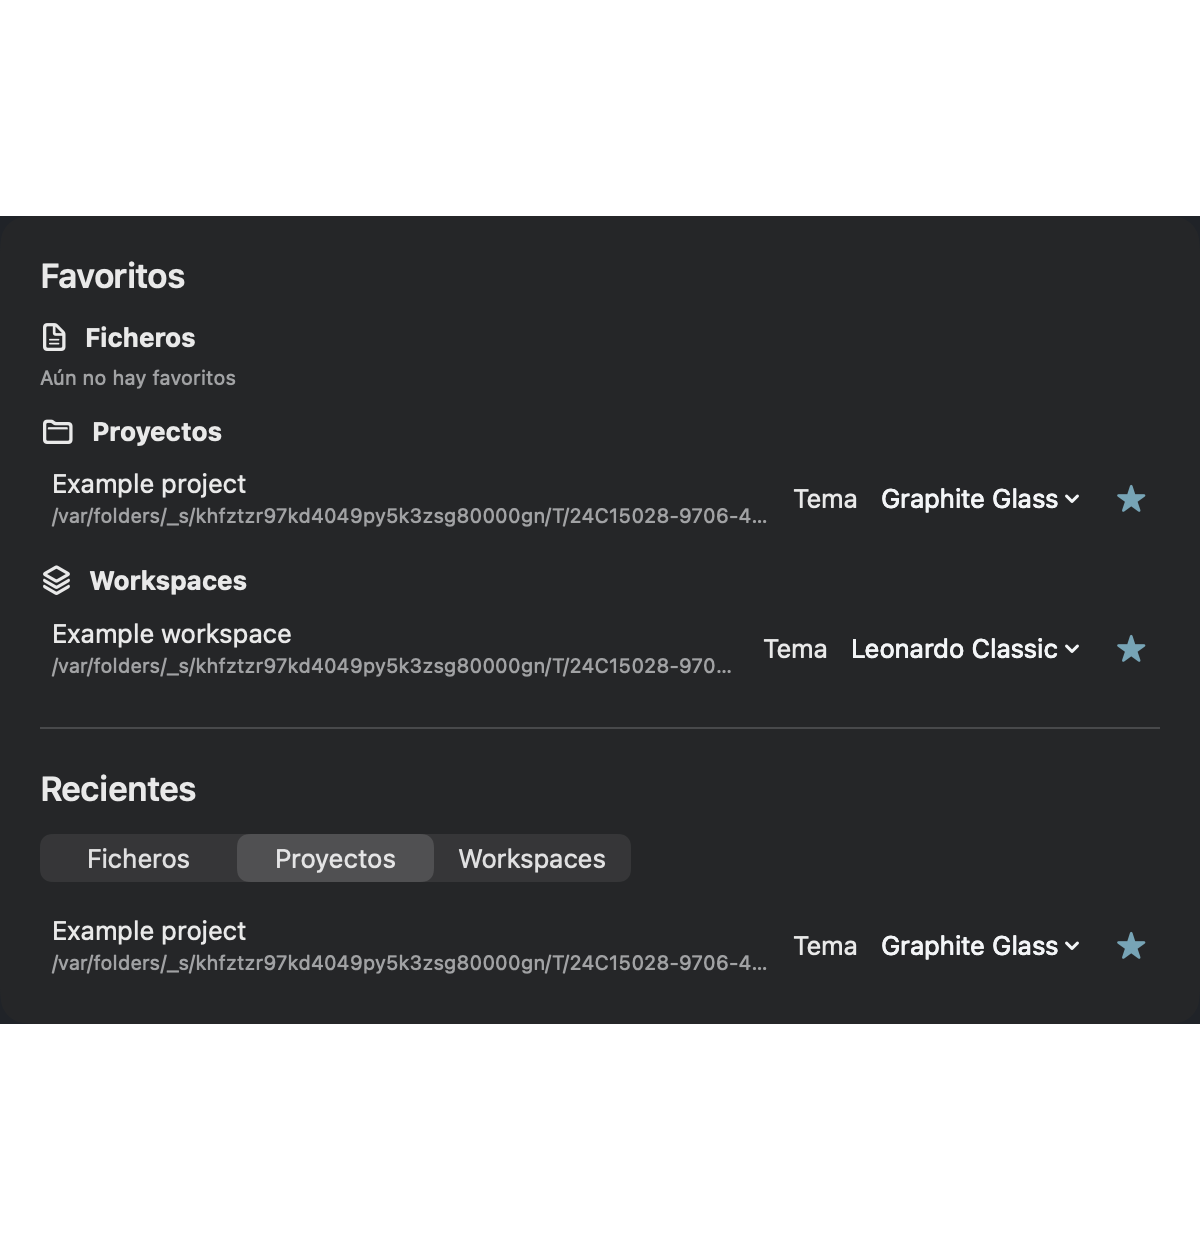
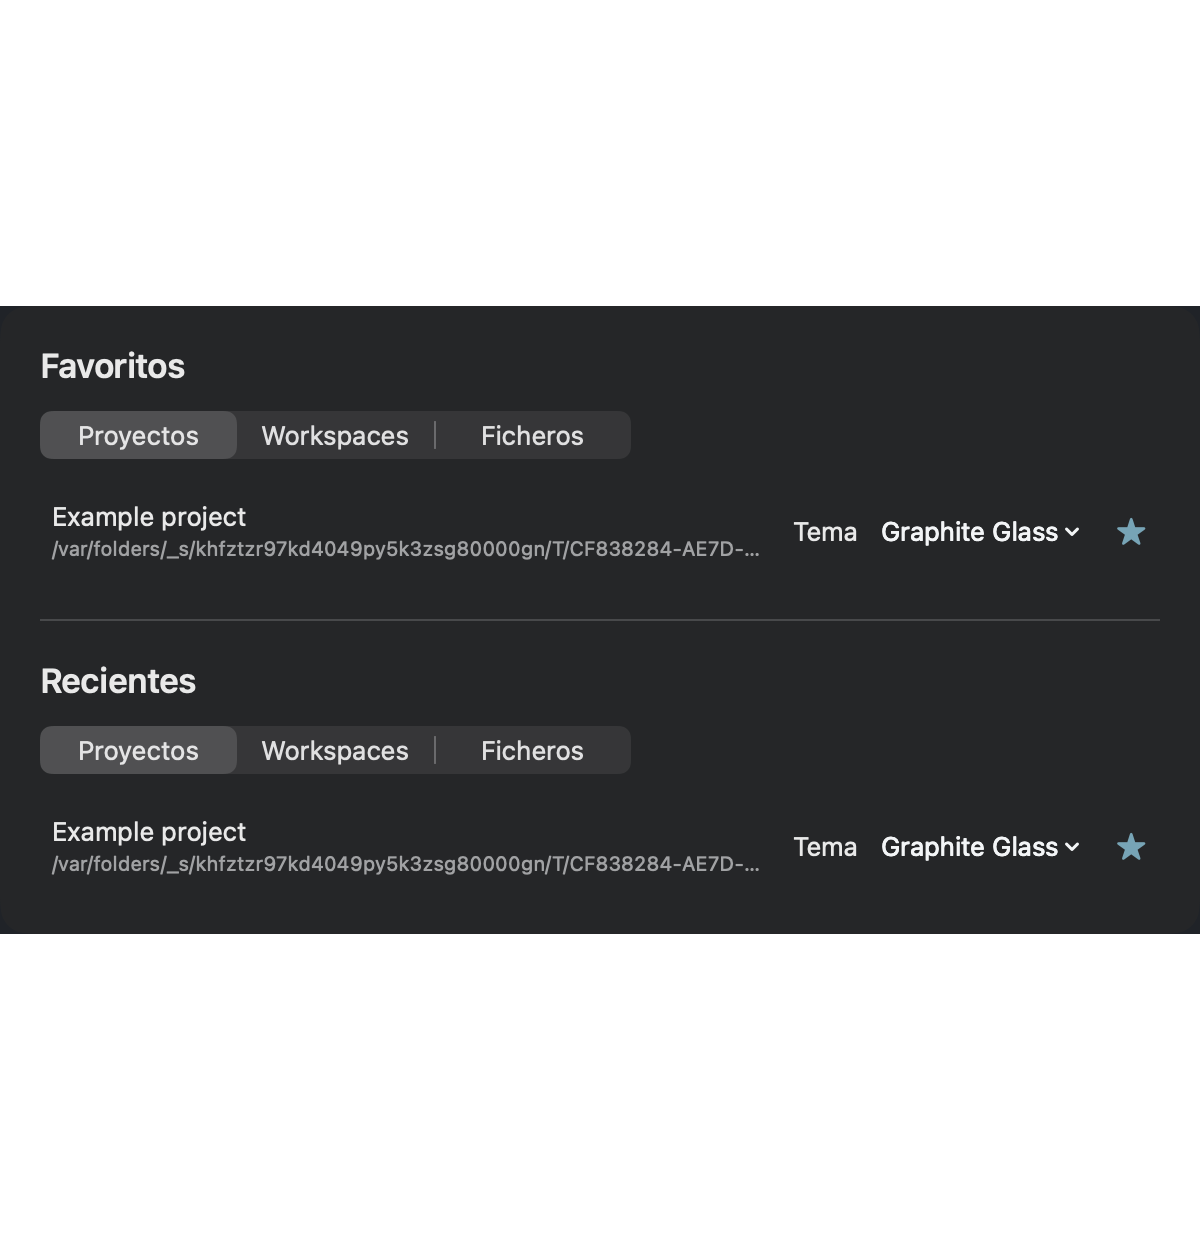
#300 Updated: validate theme menus with current Home tabs (#304)

diff --git a/Tests/LeonardoAppTests/FavoriteThemeTests.swift b/Tests/LeonardoAppTests/FavoriteThemeTests.swift
@@ -239,21 +239,26 @@ final class FavoriteThemeTests: XCTestCase {
         session.setFavoritePalette(.graphiteGlass, for: project, kind: .project)
         session.setFavoritePalette(.leonardoClassic, for: workspace, kind: .workspace)
         session.globalPreferences.recentProjectPaths = [project]
+        session.globalPreferences.recentWorkspacePaths = [workspace]
         session.persistSettings()
         await session.settingsTask?.value
         let language = LanguageSettings.shared.language
         defer { LanguageSettings.shared.language = language }
         let directory = URL(fileURLWithPath: destination, isDirectory: true)
         try FileManager.default.createDirectory(at: directory, withIntermediateDirectories: true)
-        for (locale, width, palette) in [(AppLanguage.english, 900, PaletteID.paperWhite),
-                                         (.spanish, 900, .paperWhite), (.spanish, 600, .graphiteGlass)] {
+        for (locale, width, palette, kind) in [
+            (AppLanguage.english, 900, PaletteID.paperWhite, FavoriteItem.Kind.project),
+            (.spanish, 900, .paperWhite, .project), (.spanish, 600, .graphiteGlass, .project),
+            (.english, 900, .paperWhite, .workspace), (.spanish, 600, .graphiteGlass, .workspace)
+        ] {
             LanguageSettings.shared.language = locale
             session.globalPreferences.palette = palette
             session.persistSettings()
             await session.settingsTask?.value
-            let view = NSHostingView(rootView: SavedItemsView(session: session, recentKind: .project)
+            let view = NSHostingView(rootView: SavedItemsView(session: session, favoriteKind: kind, recentKind: kind)
                 .background(session.surfaceColor).modifier(SessionAppearance(session: session)))
-            let name = "favorite-themes-\(locale.rawValue)-\(width)"
+            let suffix = kind == .project ? "" : "-workspace"
+            let name = "favorite-themes-\(locale.rawValue)-\(width)" + suffix
             try await NativeViewCaptureSupport.capture(view, size: NSSize(width: width, height: 620),
                 to: directory.appendingPathComponent(name + ".png"), title: "Favorite themes QA") { view in
                     // Keep native host appearance light while the session can be dark.
@@ -265,7 +270,8 @@ final class FavoriteThemeTests: XCTestCase {
             let metadata: [String: Any] = [
                 "head": environment["EVIDENCE_SHA"] ?? "unavailable; local source manifest required",
                 "captured_at": ISO8601DateFormatter().string(from: Date()),
-                "surface": "Native NSHostingView SavedItemsView; synthetic project/workspace favorites and starred recent project",
+                "surface": "Native NSHostingView SavedItemsView; synthetic \(kind.rawValue) favorites and starred recent items",
+                "favorite_category": kind.rawValue,
                 "viewport_points": [width, 620], "pixel_dimensions": try NSBitmapImageRep(data: Data(contentsOf: directory.appendingPathComponent(name + ".png"))).map { [$0.pixelsWide, $0.pixelsHigh] } ?? [],
                 "language": locale.rawValue, "palette": palette.rawValue,
                 "native_host_appearance": "Aqua (including the dark session fixture)",

diff --git a/doc/validation/favorite-themes/README.md b/doc/validation/favorite-themes/README.md
@@ -11,8 +11,8 @@ was packaged or launched as a standalone GUI app.
 - `favorite-themes-es-900.png`: Spanish, light, 900×620 points.
 - `favorite-themes-es-600.png`: Spanish, dark, 600×620 points.
 
-Each capture shows project/workspace favorites with their dropdowns and a starred
-recent project sharing the same association. The narrower capture keeps the
+Each capture shows the selected project or workspace category in Favorites and
+Recents, with matching dropdown selections for the same association. The narrower capture keeps the
 controls visible while truncating long paths. Native bitmap pixel dimensions and
 capture times are recorded in the JSON sidecars. Browser metadata is inapplicable.
 The source manifest identifies the exact product/test source captured locally;
@@ -40,3 +40,9 @@ through SwiftUI tint and native accent color. Capture fixtures explicitly force
 an Aqua host even for the dark session, covering the mixed-appearance case that
 made the prior popup's selected text and arrows unreadable on CI. Original local
 2× popup captures were readable; the 1× CI artifact is the defect evidence.
+
+After integration of Home's category tabs, the fixture selects matching Favorites
+and Recent tabs explicitly. The original three filenames show Projects;
+`favorite-themes-en-900-workspace.png` and
+`favorite-themes-es-600-workspace.png` show Workspaces, including the dark
+mixed-appearance case. Every capture records its selected category.
